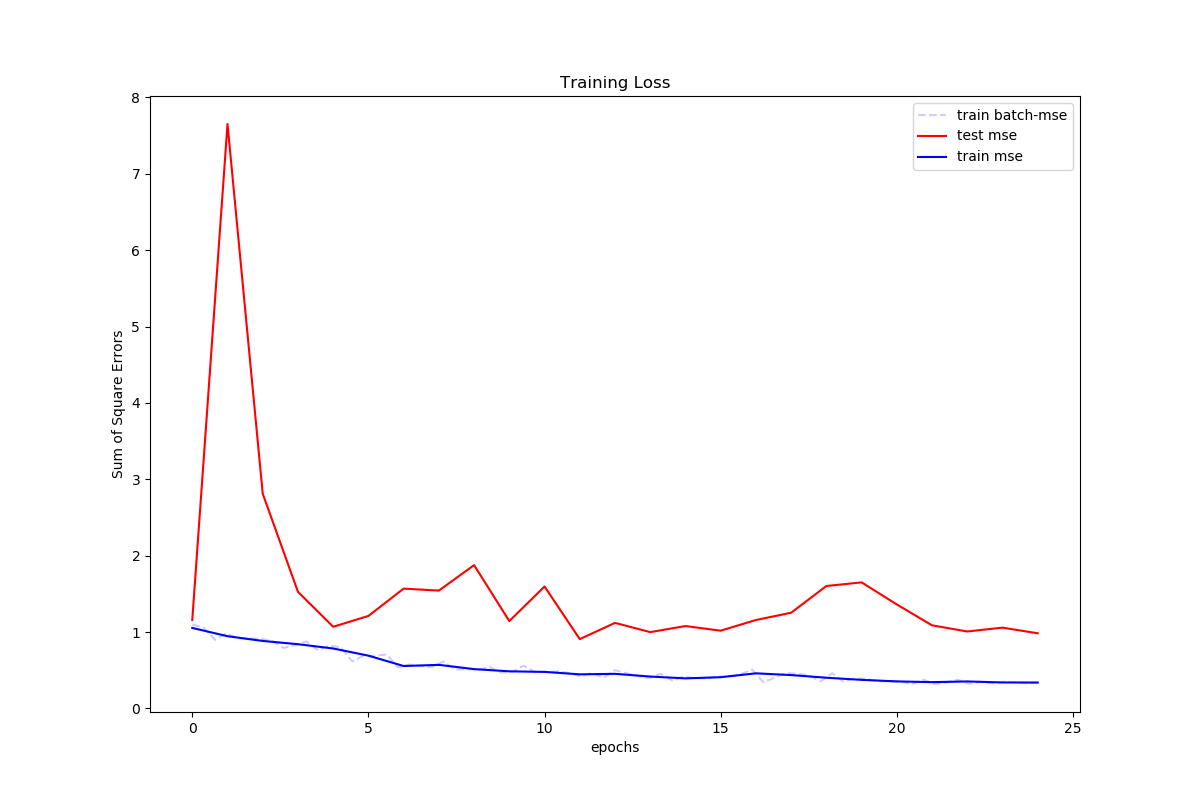
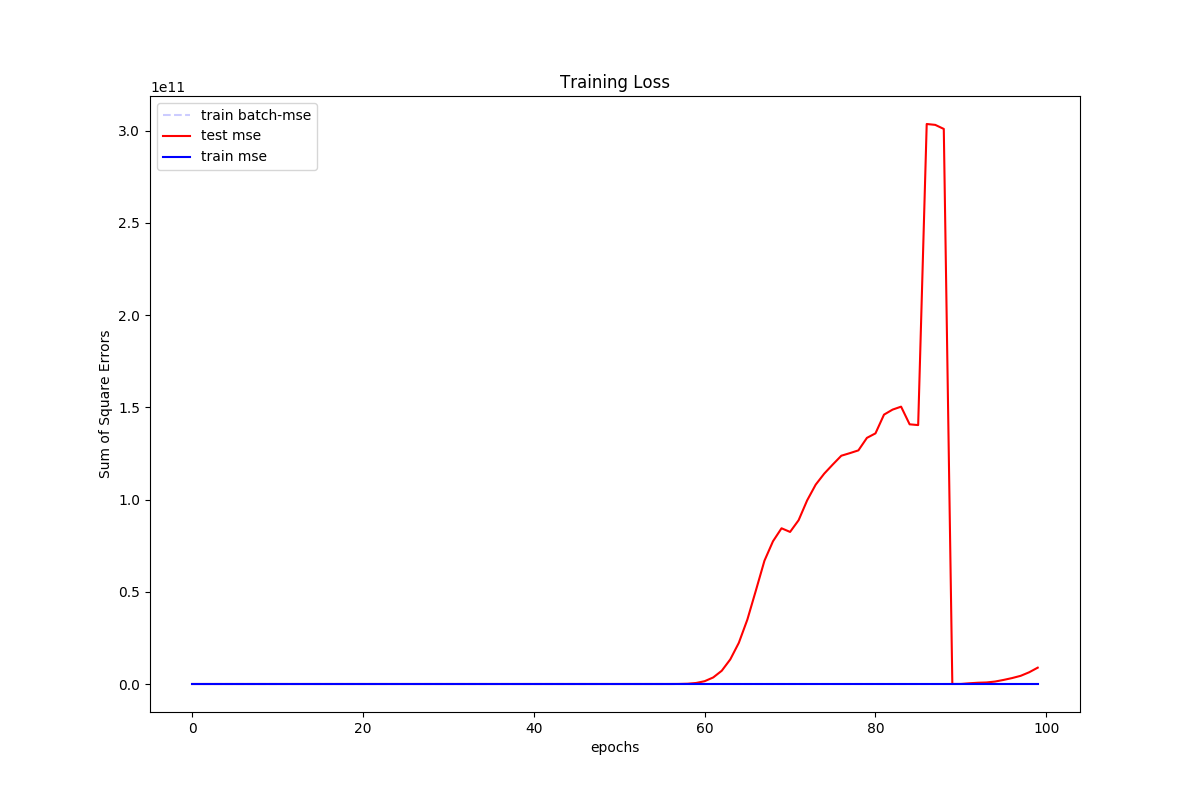
running on exahead; minor changes to make things work

diff --git a/python/FFNN_MODEL_001/config--all_data.py b/python/FFNN_MODEL_001/config--all_data.py
@@ -2,7 +2,7 @@
 
 '''
 params = {
-'NAME' : 'ALL-DATA-3FC-1O',
+'NAME' : 'ALL-DATA-3FC_shared-1dataset_outputlayer',
 
 # -----------------------------------------------------------------------------
 # -----------------------------------------------------------------------------
@@ -30,26 +30,26 @@ params = {
                                         'AUC_GDSC','CTRP_AUC',
                                         'AUC_drug_CCLE',
                                         'beatAML_AUC'])},
-'N_DATATYPES' : 7,
 
-'H1' : 2000,
-'H2' : 2000,
-'H3' : 100,                # Layer 3 - Dataset Shared
+
+'H1' : 3000,
+'H2' : 3000,
+'H3' : 500,                # Layer 3 - Dataset Shared
 'DH' : 500,                # Dataset Specific Layer
 
-'DO' : 0.25,                # Dropout
+'DO' : 0.5,                # Dropout
 'NCONVS' : 10,
 'PRINT_EVERY' : 1,
 'NGENES' : 523, #/ 523
-'EPOCHS' : 2,
+'EPOCHS' : 100,
 'LEARNING_WEIGHT' : 1e-1,
 'WEIGHT_DECAY' : 0.001,
 'LR_DECAY_PATIENCE' : 50,       # batches (not epochs)
-'PRETRAIN_EPOCHS' : 1,
+'PRETRAIN_EPOCHS' : 20,
 'PRETRAIN_LR' : 1e-1,
 'PRETRAIN_WD' : 0.1,
 'PRETRAIN_DO' : 0.9,
-'PRETRAIN_MSE_WEIGHT' : 10,     # Weight applied to target MSE
+'PRETRAIN_MSE_WEIGHT' : 50,     # Weight applied to target MSE
 # -----------------------------------------------------------------------------
 # -----------------------------------------------------------------------------
 'REPRODUCIBLE' : True,
@@ -59,9 +59,9 @@ params = {
 # -----------------------------------------------------------------------------
 'train_params' : {'batch_size': 4*2048,
           'shuffle': True,
-          'num_workers': 6},
+          'num_workers': 12},
 
 'test_params' : {'batch_size': 2048,
           'shuffle': False,
-          'num_workers': 6}
+          'num_workers': 12}
 }

diff --git a/python/FFNN_MODEL_001/config--beatAML_data.py b/python/FFNN_MODEL_001/config--beatAML_data.py
@@ -33,21 +33,21 @@ params = {
     ## `i` indicates the order of classification layers
 'RESP_TYPES' : {x:i for i,x in enumerate(['beatAML_AUC'])},
 
-'H1' : 1000,
-'H2' : 1000,
-'H3' : 250,                # Layer 3 - Dataset Shared
-'DH' : 100,                # Dataset Specific Layer
+'H1' : 3000,
+'H2' : 3000,
+'H3' : 500,                # Layer 3 - Dataset Shared
+'DH' : 500,                # Dataset Specific Layer
 
-'DO' : 0.25,                # Dropout
+'DO' : 0.5,                # Dropout
 'NCONVS' : 10,
 'PRINT_EVERY' : 1,
 'NGENES' : 523, #/ 523
-'EPOCHS' : 25,
+'EPOCHS' : 100,
 'LEARNING_WEIGHT' : 1e-1,
 'WEIGHT_DECAY' : 0.001,
 
 'LR_DECAY_PATIENCE' : 50,       # batches (not epochs)
-'PRETRAIN_EPOCHS' : 10,
+'PRETRAIN_EPOCHS' : 20,
 'PRETRAIN_LR' : 1e-1,
 'PRETRAIN_WD' : 0.2,
 'PRETRAIN_DO' : 0.9,

diff --git a/python/UTILS/utils.py b/python/UTILS/utils.py
@@ -274,9 +274,11 @@ def aggregate_labels(label_dict, keep):
                     test_labels = {**test_labels, **label_dict[dataset][split]}
                 if split == 'val':
                     val_labels = {**val_labels, **label_dict[dataset][split]}
-
-    aml_holdout = label_dict['beatAML_AUC']['PAT_HOLDOUT']
-
+    try: 
+        aml_holdout = label_dict['beatAML_AUC']['PAT_HOLDOUT']
+    except: 
+        print('NO `beatAML_AUC` key in label_dict: returning None aml_holdout -BUG')
+        aml_holdout=[]
     print()
     print(f'aggregated labels [kept: {list(keep)}]:')
     print(f'\ttrain set: \t\t {len(train_labels)}')

diff --git a/python/FFNN_MODEL_001/train.py b/python/FFNN_MODEL_001/train.py
@@ -29,7 +29,7 @@ import argparse
 
 # ---
 import sys
-sys.path.append(r'C:\Users\natha\Documents\DEEP_DRUG_SH\python\UTILS')
+sys.path.append('../UTILS/')
 import utils
 #from config import *
 import Net
